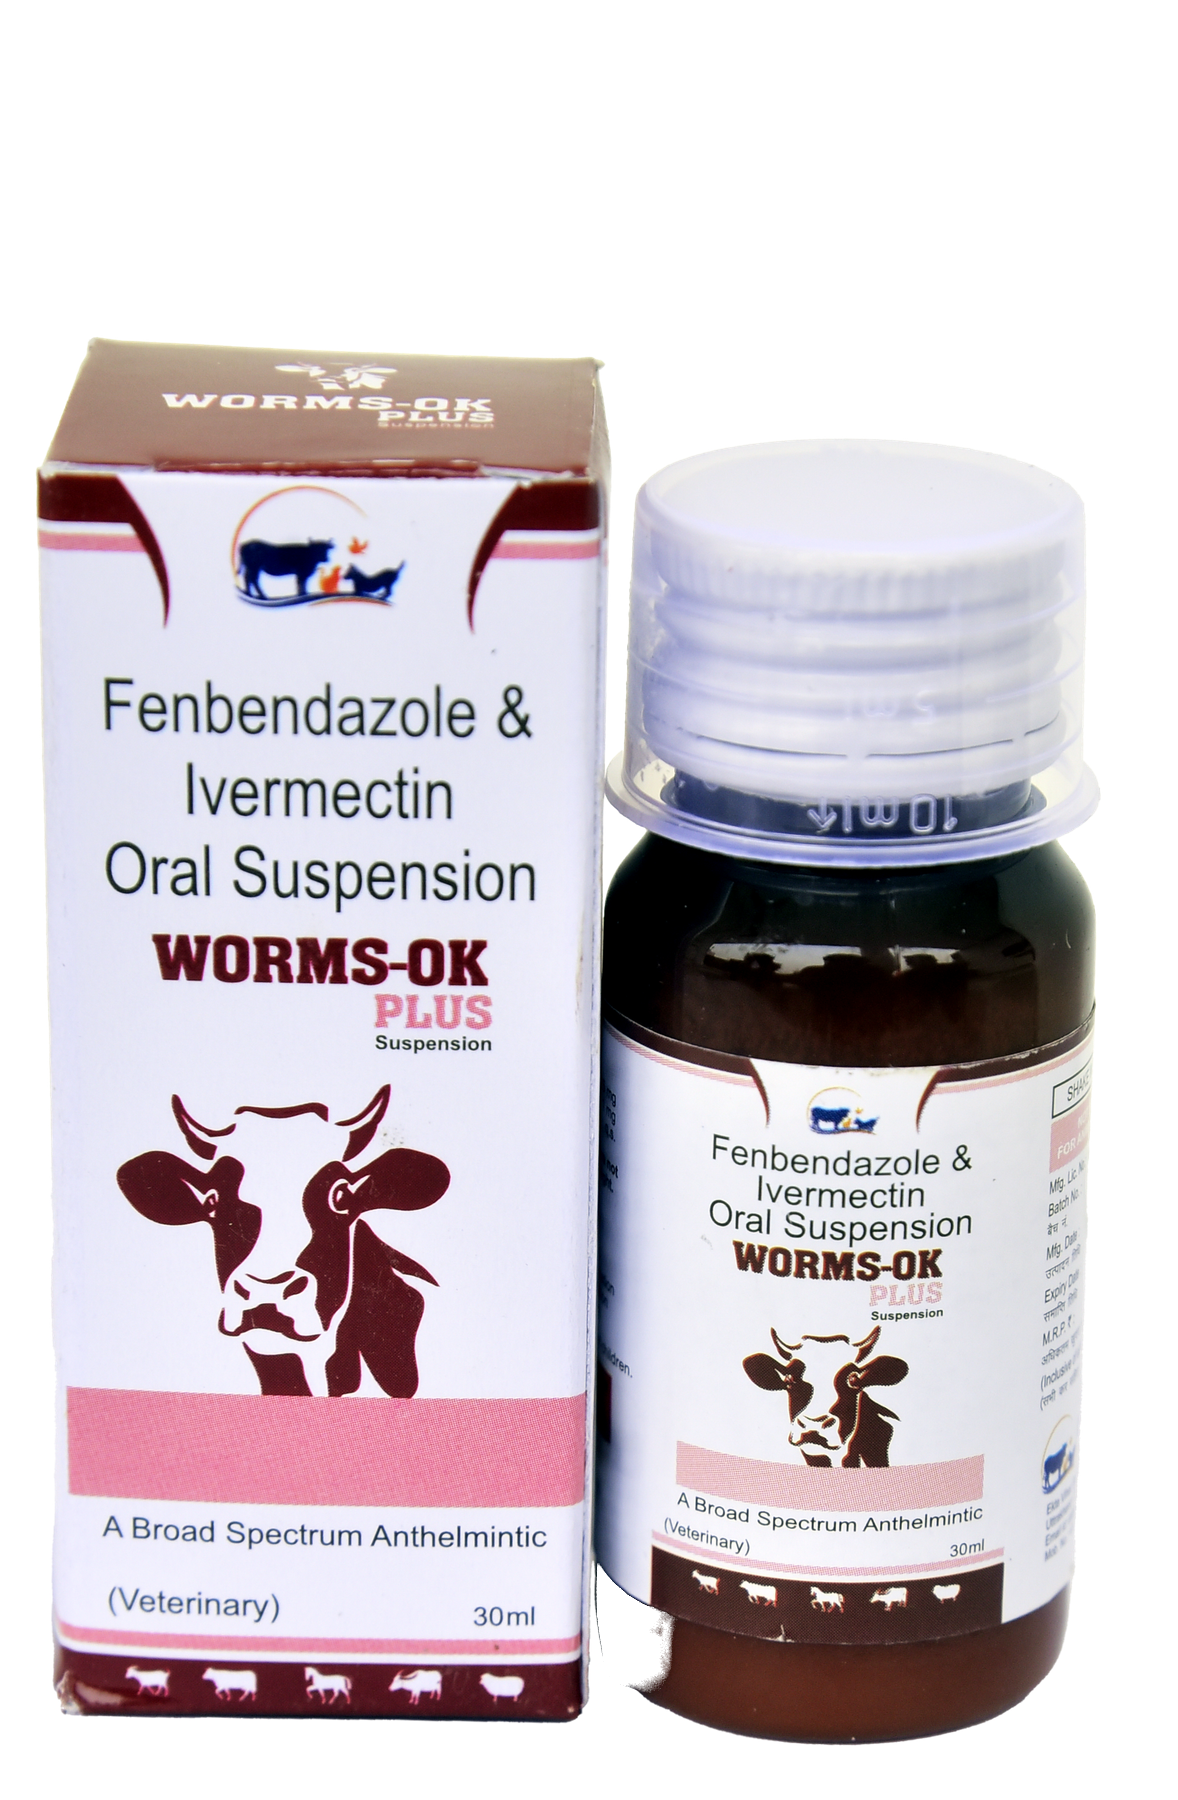
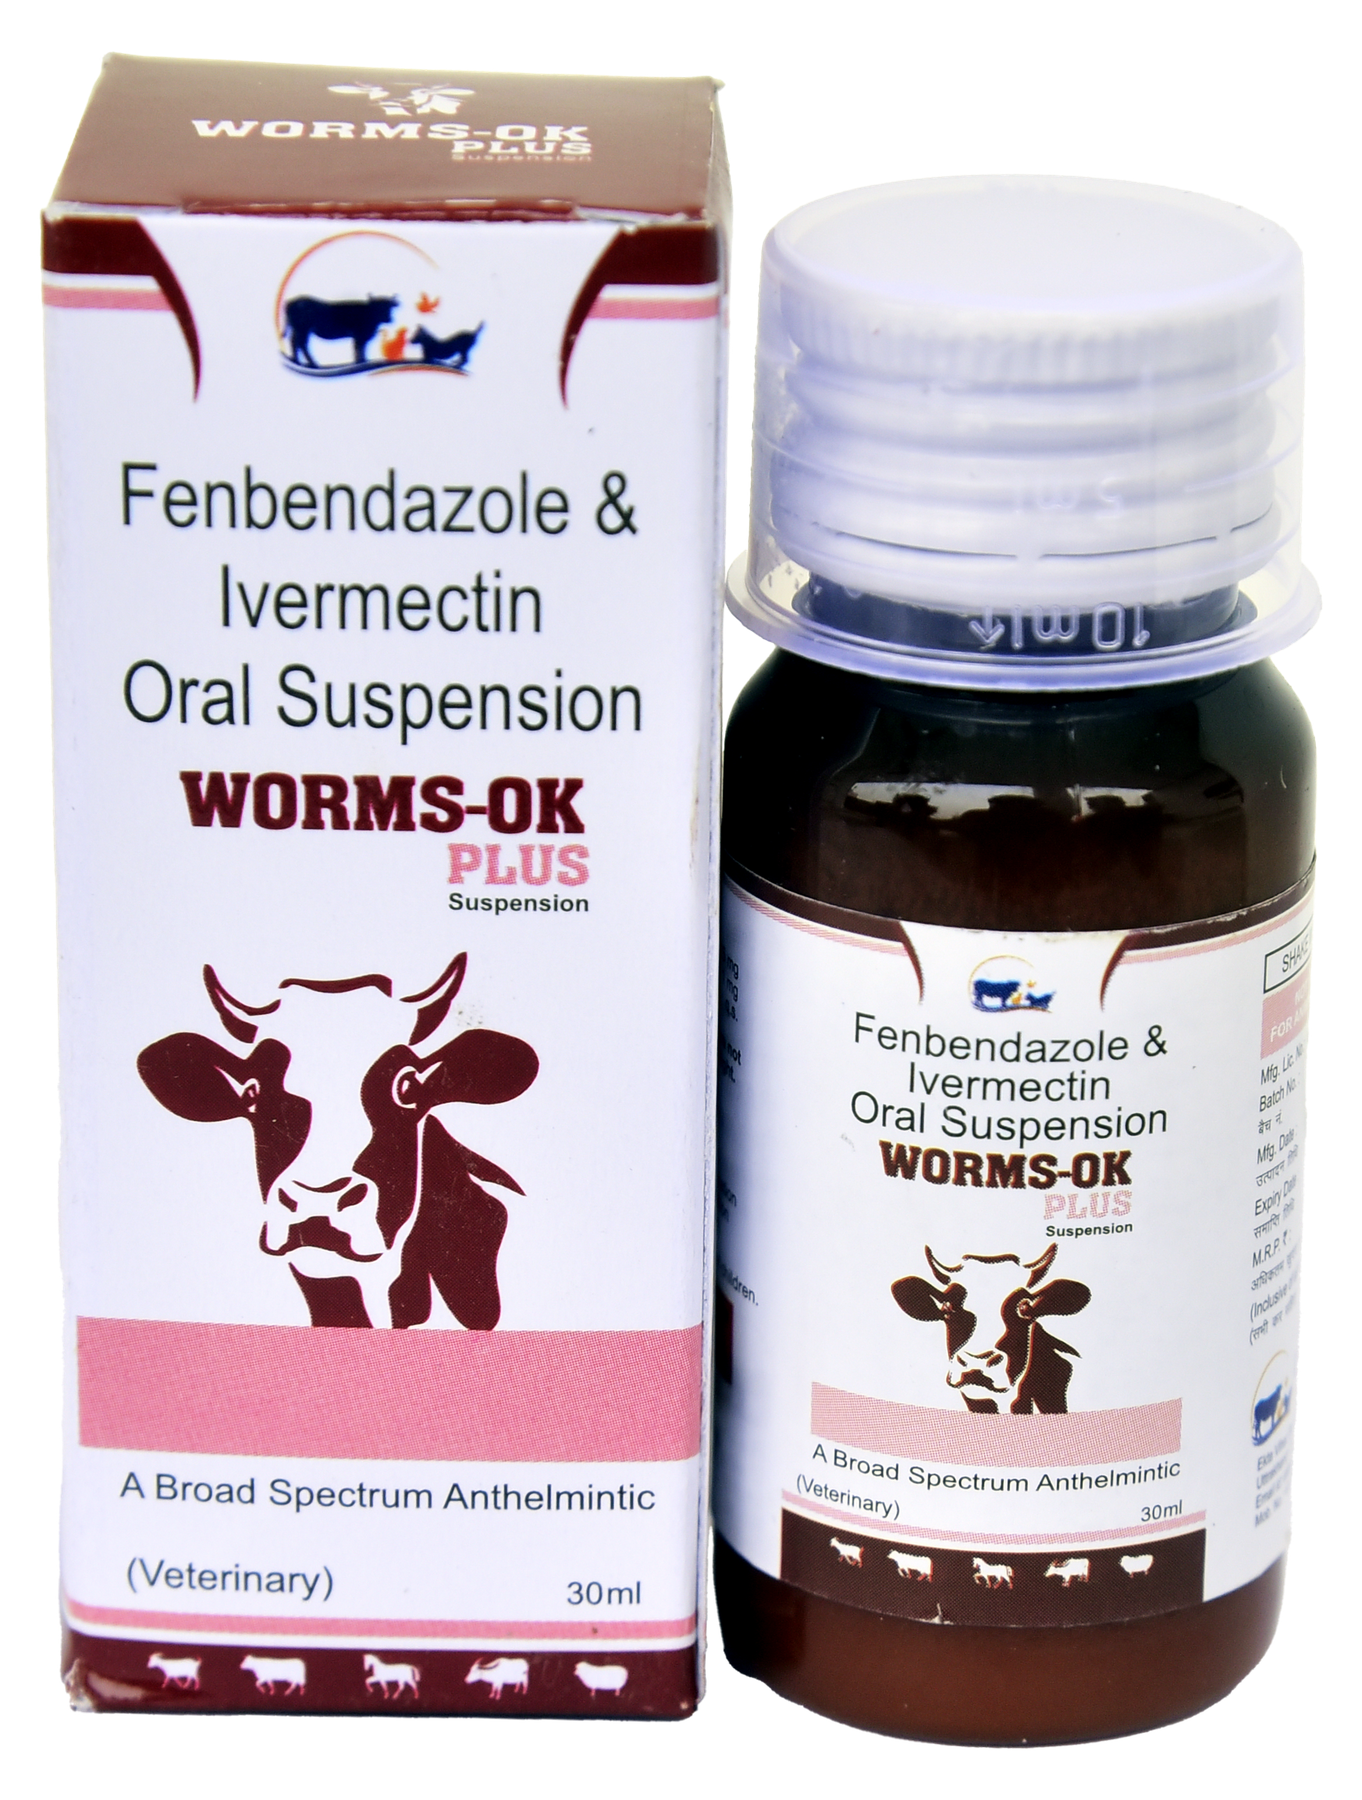
feat(products): update product packshots, add CATTLESTAR Gold lineup and non-repetitive galleries

diff --git a/src/data/products.ts b/src/data/products.ts
@@ -44,9 +44,10 @@ export const products: Product[] = [
       "Professional veterinary healthcare solution",
     ],
     info: {
-      presentation: "As per product catalogue",
+      presentation: "100 ml Multi-Dose Vial",
+      composition: "B-Complex Liver Extract with Vitamin B12 Injection",
       applicableAnimals: "Cattle, Buffalo",
-      storage: "Store as directed on product label",
+      storage: "Store protected from light & moisture",
     },
     relatedSlugs: ["liver-ok", "rumi-ok-powder", "pyrovibe-injection"],
   },
@@ -233,9 +234,10 @@ export const products: Product[] = [
       "Supports metabolic health in dairy animals",
     ],
     info: {
-      presentation: "As per product catalogue",
+      presentation: "100 ml Glass Vial with Outer Carton",
+      composition: "Butaphosphan & Cyanocobalamin Injection",
       applicableAnimals: "Cattle, Buffalo",
-      storage: "Store as directed on product label",
+      storage: "Store protected from direct light. Keep out of reach of children",
     },
     featured: true,
     relatedSlugs: ["cattlemin", "cattlestar", "cattlestar-ds"],
@@ -305,9 +307,10 @@ export const products: Product[] = [
       "Suitable for multiple livestock species",
     ],
     info: {
-      presentation: "As per product catalogue",
+      presentation: "10 x 1 x 1 Bolus & 1 x 1 Bolus",
+      composition: "Fenbendazole & Ivermectin Bolus",
       applicableAnimals: "Cattle, Buffalo, Sheep, Goat",
-      withdrawalPeriod: "As per product catalogue",
+      withdrawalPeriod: "Single dose therapy. As per product catalogue",
       storage: "Store in a cool, dry place",
     },
     relatedSlugs: ["flukevibe-ds", "worms-ok-plus", "liver-ok"],
@@ -353,7 +356,8 @@ export const products: Product[] = [
       "For veterinary-guided parasite management",
     ],
     info: {
-      presentation: "Oral Suspension — As per product catalogue",
+      presentation: "30 ml Suspension with Outer Carton",
+      composition: "Fenbendazole & Ivermectin Oral Suspension",
       applicableAnimals: "Cattle, Buffalo, Sheep, Goat",
       withdrawalPeriod: "As per product catalogue",
       storage: "Store in a cool, dry place",
@@ -366,27 +370,25 @@ export const products: Product[] = [
     category: "Nutritional Supplements",
     formulation: "Powder",
     animals: ["Cattle", "Buffalo", "Goat", "Sheep"],
-    healthConcerns: ["Nutrition"],
+    healthConcerns: ["Nutrition", "Calcium & Minerals"],
     shortDescription:
-      "Complete vitamin and mineral supplement for livestock nutrition and productivity.",
+      "Chelated mineral mixture for metabolic support, milk productivity, and reproductive performance.",
     description:
-      "CATTLEMIN is a complete vitamin and mineral supplement for livestock. Refer to the official product catalogue for detailed composition, indications, dosage, and presentation information.",
+      "CATTLEMIN is a chelated mineral mixture enriched with vitamins and amino acids to support optimal herd health, improve feed utilization, enhance milk production, and aid reproductive performance.",
     benefits: [
-      "Complete vitamin and mineral supplementation",
-      "Supports overall livestock nutrition",
-      "Aids productivity and wellbeing",
-      "Suitable for multiple ruminant species",
+      "Enhanced bioavailability through chelated minerals",
+      "Improves milk yield and fat percentage",
+      "Supports reproductive efficiency and conception rates",
+      "Promotes stronger immunity and overall metabolic health",
     ],
     info: {
-      composition: "As per product catalogue",
-      indications: "As per product catalogue",
-      dosage: "As per product catalogue",
-      presentation: "As per product catalogue",
+      presentation: "1 kg, 5 kg, 25 kg Bag",
+      composition: "Chelated Minerals, Vitamins & Amino Acids Supplement",
       applicableAnimals: "Cattle, Buffalo, Goat, Sheep",
-      storage: "Store in a cool, dry place away from moisture",
+      storage: "Store in a cool, dry place away from direct sunlight",
     },
     featured: true,
-    relatedSlugs: ["cattlestar", "cattle-phos", "rumi-ok-powder"],
+    relatedSlugs: ["cattlestar", "cattlestar-ds", "cattle-phos"],
   },
   {
     slug: "cattlestar-gel",
@@ -396,16 +398,18 @@ export const products: Product[] = [
     animals: ["Cattle", "Buffalo"],
     healthConcerns: ["Calcium & Minerals", "Milk Productivity"],
     shortDescription:
-      "Calcium gel supplement for post-calving support and milk productivity.",
+      "Ionic calcium rich gel supplement for post-calving support and milk productivity.",
     description:
-      "CATTLESTAR GEL provides calcium support in gel form for dairy animals. Refer to the official product catalogue for complete product information.",
+      "CATTLESTAR GEL provides high-potency ionic calcium in gel form to help maintain calcium levels, prevent milk fever, and support calving recovery in dairy cattle and buffalo.",
     benefits: [
-      "Calcium support in convenient gel form",
-      "Supports post-calving recovery",
-      "Aids milk productivity in dairy animals",
+      "Ionic calcium rich gel for rapid absorption",
+      "Maintains calcium levels around and after calving",
+      "Helpful in prevention and management of milk fever",
+      "Supports post-calving recovery and milk productivity",
     ],
     info: {
-      presentation: "As per product catalogue",
+      presentation: "300 g Bottle",
+      composition: "Ionic Calcium Rich Oral Gel",
       applicableAnimals: "Cattle, Buffalo",
       storage: "Store as directed on product label",
     },

diff --git a/src/data/product-images.ts b/src/data/product-images.ts
@@ -4,7 +4,11 @@ export const productImageMap: Record<string, string[]> = {
     "/images/products/liver-ok-2.png",
     "/images/products/liver-ok-3.png",
   ],
-  "liver-ok-injection": ["/images/products/liver-ok-injection.png"],
+  "liver-ok-injection": [
+    "/images/products/liver-ok-injection-1.png",
+    "/images/products/liver-ok-injection-2.png",
+    "/images/products/liver-ok-injection-3.png",
+  ],
   utrovibe: [
     "/images/products/utrovibe-1.png",
     "/images/products/utrovibe-2.png",
@@ -19,9 +23,13 @@ export const productImageMap: Record<string, string[]> = {
   "pyrovibe-injection": ["/images/products/pyrovibe-injection.png"],
   "pyrovibe-bolus": ["/images/products/pyrovibe-bolus.png"],
   megluvibe: ["/images/products/megluvibe.png"],
-  "cattle-phos": ["/images/products/cattle-phos.png"],
+  "cattle-phos": [
+    "/images/products/cattle-phos-1.png",
+    "/images/products/cattle-phos-2.png",
+  ],
   "cattle-cef": ["/images/products/cattle-cef.png"],
   "cattlecef-sb": ["/images/products/cattlecef-sb.png"],
+  "fendivibe-plus": ["/images/products/fendivibe-plus.png"],
   "flukevibe-ds": ["/images/products/flukevibe-ds.png"],
   "worms-ok-plus": ["/images/products/worms-ok-plus.png"],
   cattlemin: [
@@ -37,6 +45,7 @@ export const productImageMap: Record<string, string[]> = {
     "/images/products/cattlestar-ds-1.png",
     "/images/products/cattlestar-ds-2.png",
   ],
+  "cattlestar-gel": ["/images/products/cattlestar-gel.png"],
   "cattlestar-advance-gel": ["/images/products/cattlestar-advance-gel.png"],
   "cattlestar-gold": ["/images/products/cattlestar-gold-1.png"],
 };

diff --git a/PRODUCT_INVENTORY.md b/PRODUCT_INVENTORY.md
@@ -44,7 +44,7 @@
 | # | Product Name | Slug | Formulation | Category | Target Animals | Featured | Image Asset |
 | :-: | :--- | :--- | :--- | :--- | :--- | :-: | :--- |
 | 01 | **LIVER-OK** | `liver-ok` | Liquid | Digestive & Liver Health | Cattle, Buffalo, Goat, Sheep | Yes | Official Packshot (3x) |
-| 02 | **LIVER-OK Injection** | `liver-ok-injection` | Injection | Digestive & Liver Health | Cattle, Buffalo | No | Official Packshot |
+| 02 | **LIVER-OK Injection** | `liver-ok-injection` | Injection | Digestive & Liver Health | Cattle, Buffalo | No | Official Packshot (3x) |
 | 03 | **UTROVIBE** | `utrovibe` | Injection | Reproductive & Uterine Care | Cattle, Buffalo | No | Official Packshot (3x) |
 | 04 | **RUMI-OK Powder** | `rumi-ok-powder` | Powder | Digestive & Liver Health | Cattle, Buffalo, Goat, Sheep | Yes | Official Packshot (2x) |
 | 05 | **RUMI-OK Bolus** | `rumi-ok-bolus` | Bolus | Digestive & Liver Health | Cattle, Buffalo | No | Official Packshot |
@@ -52,18 +52,18 @@
 | 07 | **PYROVIBE Injection** | `pyrovibe-injection` | Injection | Veterinary Medicines | Cattle, Buffalo, Horse | Yes | Official Packshot |
 | 08 | **PYROVIBE Bolus** | `pyrovibe-bolus` | Bolus | Veterinary Medicines | Cattle, Buffalo | No | Official Packshot |
 | 09 | **MEGLUVIBE** | `megluvibe` | Injection | Veterinary Medicines | Cattle, Buffalo | No | Official Packshot |
-| 10 | **CATTLE PHOS** | `cattle-phos` | Injection | Veterinary Medicines | Cattle, Buffalo | Yes | Official Packshot |
+| 10 | **CATTLE PHOS** | `cattle-phos` | Injection | Veterinary Medicines | Cattle, Buffalo | Yes | Official Packshot (2x) |
 | 11 | **CATTLE-CEF** | `cattle-cef` | Injection | Veterinary Medicines | Cattle, Buffalo | No | Official Packshot |
 | 12 | **CATTLECEF-SB** | `cattlecef-sb` | Injection | Veterinary Medicines | Cattle, Buffalo | No | Official Packshot |
-| 13 | **FENDIVIBE PLUS** | `fendivibe-plus` | Bolus | Parasite Control | Cattle, Buffalo, Sheep, Goat | No | Catalog Visual / Fallback |
+| 13 | **FENDIVIBE PLUS** | `fendivibe-plus` | Bolus | Parasite Control | Cattle, Buffalo, Sheep, Goat | No | Official Packshot |
 | 14 | **FLUKEVIBE DS** | `flukevibe-ds` | Bolus | Parasite Control | Cattle, Buffalo, Sheep, Goat | No | Official Packshot |
 | 15 | **WORMS-OK PLUS** | `worms-ok-plus` | Liquid (Suspension) | Parasite Control | Cattle, Buffalo, Sheep, Goat | No | Official Packshot |
 | 16 | **CATTLEMIN** | `cattlemin` | Powder | Nutritional Supplements | Cattle, Buffalo, Goat, Sheep | Yes | Official Packshot (2x) |
-| 17 | **CATTLESTAR GEL** | `cattlestar-gel` | Gel | Calcium & Milk Support | Cattle, Buffalo | No | Catalog Visual / Fallback |
+| 17 | **CATTLESTAR GEL** | `cattlestar-gel` | Gel | Calcium & Milk Support | Cattle, Buffalo | No | Official Packshot |
 | 18 | **CATTLESTAR ADVANCE GEL** | `cattlestar-advance-gel` | Gel | Calcium & Milk Support | Cattle, Buffalo | No | Official Packshot |
 | 19 | **CATTLESTAR** | `cattlestar` | Liquid | Calcium & Milk Support | Cattle, Buffalo | Yes | Official Packshot (3x) |
 | 20 | **CATTLESTAR-DS** | `cattlestar-ds` | Liquid | Calcium & Milk Support | Cattle, Buffalo | No | Official Packshot (2x) |
-| 21 | **CATTLESTAR GOLD** | `cattlestar-gold` | Liquid | Calcium & Milk Support | Cattle, Buffalo, Horse, Calf, Pig, Sheep, Goat, Dog, Poultry | No | Official Packshot (p.21) |
+| 21 | **CATTLESTAR GOLD** | `cattlestar-gold` | Liquid | Calcium & Milk Support | Cattle, Buffalo, Horse, Calf, Pig, Sheep, Goat, Dog, Poultry | No | Official Packshot (5L, 2L, 1L) |
 
 ---
 
@@ -129,7 +129,7 @@ CATEGORY 01: CALCIUM & MILK PRODUCTIVITY SUPPORT
   - Store below 30°C
   - Keep protected from direct sunlight
 - **Product Images:**
-  - `/images/products/cattlestar-gold-1.png` (Official Catalog p.21 High-Resolution Asset)
+  - `/images/products/cattlestar-gold-1.png` (Official Chelated CATTLESTAR Gold 5 Ltr, 2 Ltr & 1 Ltr Lineup Packshot)
 - **Related Formulary:** `cattlestar`, `cattlestar-ds`, `cattlestar-advance-gel`
 
 ---
@@ -198,10 +198,11 @@ CATEGORY 01: CALCIUM & MILK PRODUCTIVITY SUPPORT
   - Supports post-calving recovery
   - Aids milk productivity in dairy animals
 - **Presentation & Storage:**
-  - *Presentation:* As per product catalogue
+  - *Presentation:* 300 g Bottle
   - *Applicable Animals:* Cattle, Buffalo
   - *Storage:* Store as directed on product label
-- **Product Images:** Packshot on file / Catalog visual fallback
+- **Product Images:**
+  - `/images/products/cattlestar-gel.png` (Official 300 g Ionic Calcium Rich Gel Packshot)
 - **Related Formulary:** `cattlestar`, `cattlestar-advance-gel`, `cattlestar-ds`
 
 ---
@@ -275,11 +276,13 @@ CATEGORY 02: DIGESTIVE & LIVER HEALTH
   - Supports liver health management in large animals
   - Professional veterinary healthcare solution
 - **Storage & Presentation:**
-  - *Presentation:* As per product catalogue
+  - *Presentation:* 100 ml Multi-Dose Vial (B-Complex Liver Extract with Vitamin B12 Injection)
   - *Applicable Animals:* Cattle, Buffalo
-  - *Storage:* Store as directed on product label
+  - *Storage:* Store protected from light & moisture
 - **Product Images:**
-  - `/images/products/liver-ok-injection.png`
+  - `/images/products/liver-ok-injection-1.png` (Front Vial Packshot)
+  - `/images/products/liver-ok-injection-2.png` (Clinical Composition & Dosage Specifications)
+  - `/images/products/liver-ok-injection-3.png` (Batch, Pricing & Manufacturer Regulatory Details)
 - **Related Formulary:** `liver-ok`, `rumi-ok-powder`, `pyrovibe-injection`
 
 ---
@@ -477,11 +480,12 @@ CATEGORY 04: VETERINARY MEDICINES (ANALGESICS, ANTIBIOTICS & SPECIALTIES)
   - Injectable formulation for large ruminants
   - Supports metabolic health in dairy animals
 - **Storage & Presentation:**
-  - *Presentation:* As per product catalogue
+  - *Presentation:* 100 ml Glass Vial with Protective Outer Carton
   - *Applicable Animals:* Cattle, Buffalo
-  - *Storage:* Store as directed on product label
+  - *Storage:* Store protected from direct light. Keep out of reach of children
 - **Product Images:**
-  - `/images/products/cattle-phos.png`
+  - `/images/products/cattle-phos-1.png` (100 ml Glass Vial & Outer Carton Duo Packshot)
+  - `/images/products/cattle-phos-2.png` (Clinical Outer Carton Packaging Packshot)
 - **Related Formulary:** `cattlemin`, `cattlestar`, `cattlestar-ds`
 
 ---
@@ -554,11 +558,12 @@ CATEGORY 05: PARASITE CONTROL & ANTHELMINTICS
   - Supports internal parasite control
   - Suitable for multiple livestock species
 - **Storage & Presentation:**
-  - *Presentation:* As per product catalogue
+  - *Presentation:* 10 x 1 x 1 Bolus & 1 x 1 Bolus
   - *Applicable Animals:* Cattle, Buffalo, Sheep, Goat
-  - *Withdrawal Period:* As per product catalogue
+  - *Withdrawal Period:* Single dose therapy. As per product catalogue
   - *Storage:* Store in a cool, dry place
-- **Product Images:** Catalog visual / Fallback
+- **Product Images:**
+  - `/images/products/fendivibe-plus.png` (Official 10x1x1 Bolus Box & 1x1 Bolus Unit Packshot)
 - **Related Formulary:** `flukevibe-ds`, `worms-ok-plus`, `liver-ok`
 
 ---
@@ -601,12 +606,12 @@ CATEGORY 05: PARASITE CONTROL & ANTHELMINTICS
   - Comprehensive worm and ectoparasite control
   - For veterinary-guided parasite management
 - **Storage & Presentation:**
-  - *Presentation:* Oral Suspension — As per product catalogue
+  - *Presentation:* 30 ml Suspension with Outer Carton
   - *Applicable Animals:* Cattle, Buffalo, Sheep, Goat
   - *Withdrawal Period:* As per product catalogue
   - *Storage:* Store in a cool, dry place
 - **Product Images:**
-  - `/images/products/worms-ok-plus.png`
+  - `/images/products/worms-ok-plus.png` (Single High-Resolution Master Studio Packshot)
 - **Related Formulary:** `fendivibe-plus`, `flukevibe-ds`, `liver-ok`
 
 ---
